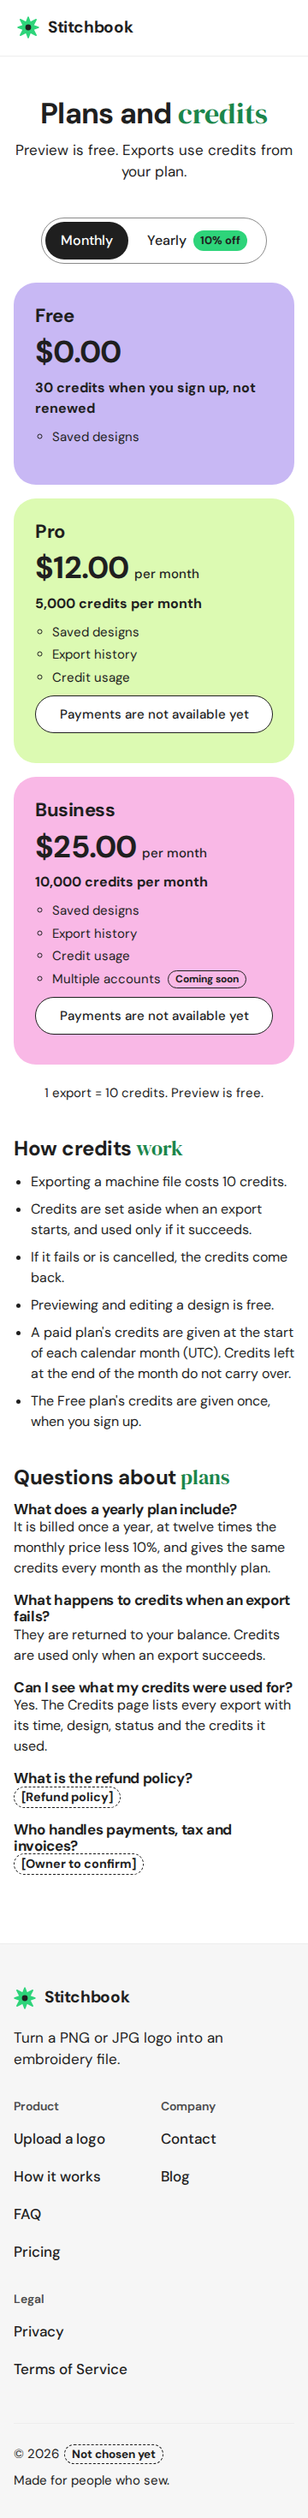
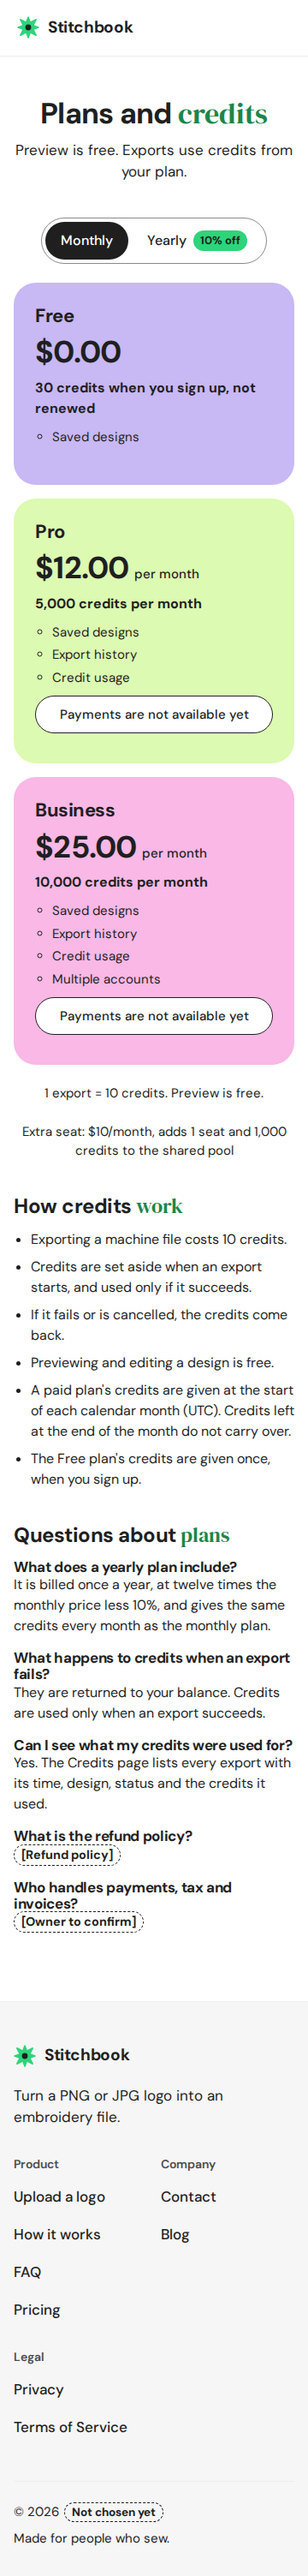
Teams on: remove the Coming soon tag; docs, CLAUDE.md, Privacy
- "Multiple accounts" is available on Business now that Stage 2 passes
- test:pricing: the extra-seat line comes from config (price, credits), changes with it,
  and is hidden while unset; config-made seat wording is the only seat wording allowed
- docs/billing.md (Export history, Credit usage, Teams, owner decisions),
  supabase-setup (migration 7 is the 6th paste), advisors, payments-whop (seat add-on)
- CLAUDE.md: plan features, usage reads as the user, team rules
- Privacy: what a team owner sees
- Drops the old plans.business.seats placeholder (replaced by team.included_seats)

Claude-Session: https://claude.ai/code/session_01UyZuVeNqbWQ99HSc4PFdeP

Changed region(s): [[0.0306, 0.031, 0.9472, 0.9905]]

diff --git a/web/src/pages/Privacy.tsx b/web/src/pages/Privacy.tsx
@@ -112,12 +112,19 @@ export default function Privacy() {
 
       <h2>Who can see it</h2>
       {signInEnabled ? (
+        <>
         <p>
           Only you, when you are logged in. Every design, job and file belongs to the account that uploaded it; the
           server and the database both refuse anyone else, and someone else's design looks to them as if it does not
           exist. Files are never given a public address: a download link works for a short time and then stops. There
           is no sharing feature. People who run Stitchbook can see the stored data through Supabase's own tools.
         </p>
+        <p>
+          Teams: if you join someone's team, the team owner sees your email address, when you joined, and how many
+          of the team's credits you spent and when. They do not see your designs or files, and other members do not
+          see you. An invite link is stored only in a scrambled (hashed) form.
+        </p>
+        </>
       ) : (
       <p>
         There are no accounts yet. Each design has its own address with a random id, and anyone who has that address

diff --git a/digitizer/src/digitizer/config.py b/digitizer/src/digitizer/config.py
@@ -315,10 +315,8 @@ PRODUCT: dict[str, dict[str, Any]] = {
             {"key": "saved_designs", "name": "Saved designs"},
             {"key": "export_history", "name": "Export history"},
             {"key": "credit_usage", "name": "Credit usage"},
-            {"key": "teams", "name": "Multiple accounts", "status": "coming_soon"},
+            {"key": "teams", "name": "Multiple accounts"},
         ],
-        # Accounts per Business subscription. Not built (Step 13b: Teams); never shown as a claim.
-        "plans.business.seats": PLACEHOLDER,
         # Yearly billing: the yearly price is monthly x 12 x (1 - this/100), computed in code
         # (Pro 129.60, Business 270.00), never typed in anywhere.
         "yearly_discount_percent": 10,

diff --git a/docs/billing.md b/docs/billing.md
@@ -17,7 +17,9 @@ Plans grant the credits. Payments go through a provider adapter: **Whop** (`docs
 | Credits: reserve / consume / release, grants, sweep | `api/src/stitchbook_api/billing.py`, the only code that uses `SUPABASE_SECRET_KEY` |
 | Payment provider interface, FakeProvider, WhopProvider | `api/src/stitchbook_api/payments.py`; setup and event mapping in `docs/payments-whop.md` |
 | One provider subscription per account | `supabase/migrations/20261001000006_whop_subscription_owner.sql` |
-| Tables, RLS, functions | `supabase/migrations/20261001000005_billing.sql` |
+| Tables, RLS, functions | `supabase/migrations/20261001000005_billing.sql`; teams and usage reads in `20261001000007_usage_and_teams.sql` |
+| Export history, Credit usage (read as the user) | `api/src/stitchbook_api/account.py`, `web/src/pages/Exports.tsx`, Credit usage in `web/src/pages/Billing.tsx` |
+| Teams | `Billing.team_*` in `api/src/stitchbook_api/billing.py`, routes `/team*` in `main.py`, `web/src/pages/Team.tsx`, `web/src/pages/TeamJoin.tsx` |
 | Pricing page, plan cards, header balance, /billing | `web/src/pages/Pricing.tsx`, `web/src/lib/PlanCards.tsx`, `web/src/lib/credits.ts`, `web/src/pages/Billing.tsx` |
 
 ## Values the owner gave (in config.py)
@@ -25,8 +27,10 @@ Plans grant the credits. Payments go through a provider adapter: **Whop** (`docs
 | Value | Setting | Notes |
 |---|---|---|
 | Free | price 0, 30 credits, given once ("lifetime") | **OWNER TO CONFIRM.** 30 = 3 exports at 10 credits each. |
-| Pro | 12 USD a month, 5,000 credits a month, features: "Dashboard" only | |
-| Business | 25 USD a month, 10,000 credits a month | Features and seats are `__CHOOSE__`; nothing is claimed. |
+| Features | Free: Saved designs. Pro: + Export history, Credit usage. Business: + Multiple accounts | `plans.*.features`: each has a `key` the API checks and a `name` the cards show; `"status": "coming_soon"` shows a tag and unlocks nothing. |
+| Pro | 12 USD a month, 5,000 credits a month | |
+| Business | 25 USD a month, 10,000 credits a month | Teams: 4 seats including the owner (`team.included_seats`). |
+| Extra seat | 10.00 USD a month, adds 1 seat and 1,000 credits a month to the owner's plan bucket | `team.extra_seat_price`, `team.extra_seat_credits`. The Whop add-on id `team.extra_seat_whop_plan_id` is `__CHOOSE__`. |
 | Yearly discount | 10% | Yearly price = monthly × 12 × 0.9, computed in code: Pro 129.60, Business 270.00. Yearly plans get the same monthly allowance. |
 | Export cost | 10 credits | |
 | Monthly rollover | off | **OWNER TO CONFIRM.** Unused plan credits expire at the end of the UTC month. |
@@ -40,8 +44,8 @@ These are all `__CHOOSE__` or flagged in config.py. Until chosen, the UI shows a
   - `credit_costs.satin_columns`: unset, so satin columns are free and nothing is reserved;
   - `credit_costs.auto_digitize`: unset (the operation does not exist yet).
 - **The Free plan's 30 credits:** exports? Lifetime or monthly?
-- **Business:** features, and seats. Teams are not built (see Step 13b).
-- **"Dashboard":** what it includes (Pro). It is listed because the owner gave it; no dashboard feature exists in the code yet.
+- **History page size:** `history_page_size` (rows per page of Export history and Credit usage). Unset = those pages answer "not configured".
+- **Teams:** `team.invite_ttl_s` (how long an invite link works) and `team.extra_seat_whop_plan_id`; see "Teams" below for the open decisions.
 - **Rollover:** `monthly_rollover`.
 - **Credit packs:** `credit_packs`, a list of `{"credits": n, "price": p}`. Hidden while unset. Bought credits never expire and are spent after the monthly allowance.
 - **Reservation timeout:** `reservation_timeout_s`, and `sweep_interval_s`. While unset, the stale sweep does not run.
@@ -118,13 +122,30 @@ A local gateway can be added the same way. The FakeProvider (HMAC-SHA256 over th
 - **Deleting a design** keeps its spent credits spent; the log rows stay, with no design.
 - **Deleting an account** removes its billing rows (cascade), but not the provider's subscription: cancel it first.
 
-## Step 13b: Teams (not built)
+## Export history and Credit usage (Step 13d)
 
-Nothing in the UI or copy mentions teams, seats or multiple accounts. Open decisions:
+Pro and Business (the `export_history` and `credit_usage` feature keys). Free gets 403 `{"error": "plan_required", "plan": "pro"}` and the web shows a calm note with a link to Pricing; Free keeps its header balance, its designs and the operation History on /billing.
 
-- **Organizations:** an `organizations` table; is a personal account an organization of one?
-- **Members and roles:** owner / admin / member; who may buy, export, see history.
-- **Shared credit pool:** credits belong to the organization; the per-user ledger and reservations move to organization ids.
-- **RLS rewrite:** every policy changes from `owner_id = auth.uid()` to membership checks, including Storage paths (`{user_id}/...` → `{org_id}/...`).
-- **Invitations:** email invitations, expiry, accepting into an existing account.
-- **Seat limits:** `plans.business.seats`; what happens when a plan is downgraded below its member count.
+- `GET /exports?page=n`: the user's finished exports, newest first (design name, format, size, credits, date). Downloading again goes through the normal metered download, which signs a fresh short-lived link (`storage.signed_url_ttl_s`); it is a new export and costs credits, because the stored file is rewritten by every (free) preview.
+- `GET /credits/usage?page=n`: balance by bucket, renewal date, this month's spend, and the entries (grants +, spends −), newest first.
+- Both are read AS THE USER: the API calls migration 7's `my_*` functions with the user's own token and the publishable key, so row level security decides. No secret key. (`my_credit_balance()` is a definer wrapper that only ever reads the caller's own balance.)
+
+## Teams (Step 13b)
+
+Only Business has a team (the `teams` feature key, "Multiple accounts"). Members export with the TEAM OWNER's credits; designs stay private to whoever made them (no sharing).
+
+- **Seats:** owner + members ≤ `team.included_seats` + active extra seats. Checked in SQL under the owner's row lock (`team_create_invite`, `team_accept_invite`), so concurrent accepts cannot overshoot (tested with 10 at once).
+- **Invites:** `POST /team/invites {email}` returns a link `/team/join#token=...` to copy; there is no email service. Only the token's SHA-256 is stored. A link works once, until `team.invite_ttl_s`, for the invited email only (the signed-in email must match). One person, one team. Someone with an active paid plan of their own must cancel it before joining.
+- **Who pays:** `billing_credit_owner(user)` = the team owner while the user is a member of an active Business team, else the user. `reserve_credit` / `consume_credit` / `release_credit` lock and spend that pool. A reservation keeps who spent (`owner_id`, whose design it is) and who paid (`credit_owner_id`, new); the owner's Credit usage shows which member spent. Grants record `acting_user_id` (new, nullable) where there is one (an extra seat). Spends are not ledger rows (the ledger only holds grants; balances subtract reservations), so "who spent" lives on the reservation.
+- **Members see** "Credits are provided by your team" (on /billing, /team and instead of plan cards), the pool's available credits and their own history. They cannot read the owner's billing, invites, seats or other members (403 `team_member`; RLS shows them only their own member row).
+- **Removing a member** (`DELETE /team/members/{id}`; never the owner) stops pool access at once: the next reservation finds no membership. Something already running settles normally.
+- **Plan end:** when the owner's Business ends (deactivated, or switched to another plan), the webhook runs `team_end`: members leave the team, open invites stop working, designs stay with their makers. They fall back to Free rules with no new free credits (nobody who has ever joined a team gets the Free grant). "Cancelled but paid until later" keeps the team until then.
+- **Extra seats:** `POST /team/seats` opens the provider's checkout (FakeProvider now; Whop once `team.extra_seat_whop_plan_id` is set, otherwise "Extra seats are not available yet."). A seat event grants `team.extra_seat_credits` into the owner's plan bucket once per seat and UTC month (ref `seat:{subscription}:{YYYY-MM-01}`, no rollover; replays add nothing); the monthly top-up gives later months while the seat and Business are active. A cancelled seat stops the next grant and frees no member.
+
+### OWNER TO DECIDE (teams)
+
+- **Whop add-on seat billing:** create the add-on plan in Whop and paste its id into `team.extra_seat_whop_plan_id`; whether a seat renews with the Business plan's date or its own; what happens to seats when Business is cancelled (today: seats stay recorded but give no credits and no access while Business is inactive).
+- **Members at downgrade:** today the team ends and members go back to Free rules without new free credits. Alternatives: a grace period, or keeping the team inactive for a later re-subscribe.
+- **Seats below the member count** (an extra seat cancelled while full): today nobody is removed; no one new can join until there is room.
+- **Email invites later:** an email service (Supabase Auth invite, or a mail provider) instead of copying the link.
+- **Per-member credit limits:** not built; any member can spend the whole pool.

diff --git a/CLAUDE.md b/CLAUDE.md
@@ -37,12 +37,14 @@ After building any screen, run the screenshot audit and fix clipped text and con
 - Without the Supabase settings the API and web run in local mode (one local user, files on disk) so every offline test passes. Live isolation tests (`api/tests/test_supabase_live.py`) skip with a message when the keys are missing; say so when reporting.
 - Security and Performance Advisors cannot be run from here: findings go in `docs/supabase-advisors.md`; never claim they are clean.
 
-## Credits and billing (Step 13, `docs/billing.md`)
+## Credits and billing (Steps 13-13d, `docs/billing.md`)
 
 - Preview is always free. Metered operations (export now; satin columns / auto-digitize once `billing.credit_costs.*` is set) reserve credits BEFORE the work or the enqueue, consume ONLY on success, release on failure, cancel or the stale sweep. 402 `{error, available, needed, plan}` when short; nothing runs.
-- Every price, credit amount, cost, discount and switch lives in config.py `billing.*`; the yearly price is computed (`stitchbook_api.plans`). No price or credit literal in web components (`npm run test:pricing` scans them). Unset = visible placeholder or hidden, never invented. No team/seat/"unlimited" wording (Step 13b is not built).
+- Every price, credit amount, cost, discount and switch lives in config.py `billing.*`; the yearly price is computed (`stitchbook_api.plans`). No price or credit literal in web components (`npm run test:pricing` scans them). Unset = visible placeholder or hidden, never invented. No "unlimited" wording; team/seat wording only from config (the plan features and the extra-seat line).
 - Credits change only through migration 5's security-definer functions (service_role only, `search_path ''`, owner row lock, idempotent by job id / ref). Users can only read their own billing rows. `stitchbook_api.billing` is the ONLY code using `SUPABASE_SECRET_KEY`.
 - Payments go through `stitchbook_api.payments.Provider`; webhooks verify the raw body's signature before parsing, apply each event once, take the user id only from signed metadata. FakeProvider is for tests/local only.
 - Whop (Step 13c, `docs/payments-whop.md`): `WhopProvider`, sandbox first. Whop plan ids live in config.py (`billing.plans.*.whop_plan_ids.*`); code never creates prices (`make check-whop-plans` only reads). `WHOP_API_KEY` / `WHOP_WEBHOOK_SECRET` are server-only (check:secrets). A membership stays bound to its first owner (migration 6). Refunds are only logged. No "Whop handles tax" or similar claim in the app until the owner confirms (test:pricing scans for it).
+- Plan features (`billing.plans.*.features`: key, name, optional `"status": "coming_soon"`) are what the cards show AND what the API unlocks (`plans.has_feature`); no feature text typed into PlanCards/Pricing (test:pricing). Export history (`GET /exports`) and Credit usage (`GET /credits/usage`) are read as the user through migration 7's `my_*` functions (RLS, never the secret key); without the feature: 403 `{error: "plan_required", plan}`.
+- Teams (Step 13b, `docs/billing.md`): Business only. Members spend the team owner's pool (`billing_credit_owner`, owner row lock); designs stay private. Seats (`billing.team.included_seats` + active extra seats) are enforced in SQL. Team tables are read-only for users; every change goes through migration 7's service-role functions via `stitchbook_api.billing`. Invite tokens: shown once, stored only as SHA-256, never logged, in the URL fragment on the web. A member never reads the owner's billing, invites or other members (403 `team_member`). New team rules get a test in `supabase/tests/test_teams_db.py` and `api/tests/test_teams_api.py`; `npm run test:teams` screenshots the four kinds of user on the real API and SQL.
 - Local mode has no billing: metered operations need `STITCHBOOK_FREE_OPERATIONS=1`. `STITCHBOOK_ENV=production` refuses to start without Supabase sign-in, the secret key, and with free operations or test-run values on.
-- Tests: `supabase/tests/test_billing_db.py` (SQL, concurrency), `api/tests/test_billing_api.py` (API on the real SQL), `npm run test:pricing`, `npm run test:auth`.
+- Tests: `supabase/tests/test_billing_db.py`, `test_usage_db.py`, `test_teams_db.py` (SQL, concurrency), `api/tests/test_billing_api.py`, `test_usage_api.py`, `test_teams_api.py` (API on the real SQL), `npm run test:pricing`, `npm run test:auth`, `npm run test:teams`.

diff --git a/docs/supabase-setup.md b/docs/supabase-setup.md
@@ -15,6 +15,7 @@ The files are in `supabase/migrations/`. Paste each one whole and run it before 
 | 3rd | `20261001000003_storage.sql` | Private buckets `uploads` and `exports`. Their policies let a signed-in user read and write only under their own folder: `{user_id}/...`. |
 | 4th | `20261001000005_billing.sql` | Credits and plans (Step 13): `subscriptions`, `credit_ledger`, `credit_reservations`, `credit_allocations`, `operation_log`, `processed_webhook_events`, with RLS (users read their own rows only and write nothing), and the credit functions that only the secret key may run. It also adds `(design_id, owner_id)` indexes to `jobs` and `exports`. See `docs/billing.md`. |
 | 5th | `20261001000006_whop_subscription_owner.sql` | Payments (Step 13c): one Whop membership can belong to one account only (a unique index on `subscriptions`). Paste it before taking payments; see `docs/payments-whop.md`. |
+| 6th | `20261001000007_usage_and_teams.sql` | Step 13d + 13b: the functions that read Export history and Credit usage as the signed-in user (`my_export_history`, `my_credit_entries`, `my_credits_spent`, `my_subscription`, `my_credit_balance`); teams (`teams`, `team_members`, `team_invites`, `team_extra_seats`, read-only RLS); the shared credit pool (new `credit_reservations.credit_owner_id`, `credit_ledger.acting_user_id`, reason `seat_grant`; `reserve_credit`, `consume_credit`, `release_credit` replaced); seat limits, invites and extra seats as service-role functions. Paste it before deploying this version of the API. |
 
 There is no `20261001000004_*.sql` in this repository. If you made a migration 4 yourself, run it before migration 5. Migration 5 does not depend on it; its index statements use `if not exists`, so an index of the same name is not made twice.
 
@@ -29,7 +30,8 @@ What to click:
 5. Open a new tab with **+** again. Paste and run `20261001000002_profiles_on_signup.sql`.
 6. Open a new tab with **+** again. Paste and run `20261001000003_storage.sql`.
 7. Open a new tab with **+** again. Paste and run `20261001000005_billing.sql`. (If the first three are already in your project, start here.)
-8. Open a new tab with **+** again. Paste and run `20261001000006_whop_subscription_owner.sql` (Step 13c). If 1-5 are already in your project, this is the only one to run now.
+8. Open a new tab with **+** again. Paste and run `20261001000006_whop_subscription_owner.sql` (Step 13c).
+9. Open a new tab with **+** again. Paste and run `20261001000007_usage_and_teams.sql` (Step 13d + 13b). If migrations 1-6 are already in your project, this is the only one to run now. Run it once: it replaces three credit functions and adds columns, and a second run stops at its first `create table` ("already exists"), changing nothing.
 
 Each file is meant to run once on the empty project. Running file 1 or 2 a second time fails with "already exists"; that is harmless, nothing is changed. File 3 also stops at its first policy on a second run, after setting both buckets back to private.
 

diff --git a/docs/supabase-advisors.md b/docs/supabase-advisors.md
@@ -42,6 +42,15 @@ What migration 5 was written to avoid (intentions, not results):
 
 Migration 6 only adds a unique partial index, `subscriptions_provider_subscription_idx` on `subscriptions (provider, provider_subscription_id)`. Run the advisors again and record any finding; the Performance Advisor may list it as an unused index until webhooks arrive.
 
+## After migration 7 (usage and teams)
+
+Run both advisors again and record every finding. Intentions, not results:
+
+- RLS is on for `teams`, `team_members`, `team_invites`, `team_extra_seats`: users get SELECT only (owner reads all of their team; a member reads their own member row and their team); no write grants; nothing for anon.
+- `credit_reservations` now has one read policy: the spender (`owner_id`) or the pool owner (`credit_owner_id`).
+- New functions all set `search_path = ''`. The team and pool functions are security definer, service role only. `my_credit_balance()` is a security-definer function that authenticated users may run; it only reads `auth.uid()`'s own balance, so a "security definer function executable by authenticated" finding is expected for it. The other `my_*` functions are security invoker.
+- Indexes: `owner_id` on every new table, `team_invites (team_id)`, `team_invites (accepted_by)`, `credit_reservations (credit_owner_id, created_at)`. `team_members.user_id` and `team_invites.token_hash` are unique.
+
 ## Security Advisor findings
 
 | # | Level (Error / Warning / Info) | Finding (name as shown) | Object (table, function, bucket) | What it says | Fixed in | Notes |

diff --git a/docs/payments-whop.md b/docs/payments-whop.md
@@ -167,6 +167,10 @@ The SDK has payout APIs (`payout_accounts`, `payout_methods`, `withdrawals`) but
 - Any identity verification, tax forms and minimum payout.
 - Payout fees and currency conversion (USD to PKR).
 
+### 4b. Extra team seats (Step 13b)
+
+An extra seat is a separate Whop plan (an add-on): create a renewing plan at the extra-seat price in config.py (`billing.team.extra_seat_price`, 10.00 USD a month) and paste its id into `billing.team.extra_seat_whop_plan_id`. Until then the Team page says "Extra seats are not available yet." Its webhooks (same events, same URL) add a seat and grant `billing.team.extra_seat_credits` once per seat and month. OWNER TO CONFIRM: whether Whop can tie the add-on to the Business membership, or it renews on its own date (today: on its own).
+
 ### 5. OWNER TO CONFIRM before launch
 
 - **Tax and invoices:** Owner states that Whop handles tax and invoices. Verify this in Whop's own terms/docs before launch and paste the link here: ____
